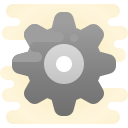
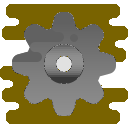
Changement de la palette de couleur et amélioration graphique

diff --git a/css/style.css b/css/style.css
@@ -10,8 +10,28 @@
 }
 
 body {
+  --green-darker: #060C00;
+  --green-dark: #295802;
+  --green-normal: #62A12D;
+  --green-light: #A3DD73;
+  --green-lighter: #E2FACE;
+  --brown-darker: #090700;
+  --brown-dark: #625102;
+  --brown-normal: #B59E32;
+  --brown-light: #F8DC5C;
+  --brown-lighter: #FFF9BD;
+
+
   text-align: center;
   font-family: Nunito;
+  color: var(--brown-darker);
+  /* background: var(--green-normal); */
+  background:     
+    linear-gradient(217deg, var(--green-light), rgba(255,0,0,0.0) 90.71%),
+    linear-gradient(127deg, var(--green-dark), rgba(0,255,0,0) 90.71%),
+    linear-gradient(336deg, var(--green-darker), rgba(0,0,255,0) 90.71%);
+  background-repeat: no-repeat;
+  background-attachment: fixed;
 }
 
 .card {
@@ -20,7 +40,7 @@ body {
 
   /* margin: 10% auto; */
 
-  border: solid white;
+  border: solid var(--green-dark);
   cursor: pointer;
   text-align: center;
   -webkit-transition: transform 0.6s;
@@ -38,8 +58,9 @@ body {
   /* padding-bottom: 100%; */
 }
 
-.card:hover {
-  border: solid black;
+.card_front:hover {
+  /* border: solid black; */
+  background-color: var(--green-normal)
 }
 
 /*.card_content {
@@ -63,7 +84,7 @@ body {
   justify-content: center;
 }
 .card_front {
-  background-color: #6c8976;
+  background-color: var(--brown-normal);
   transform: rotateX(0deg);
   height: 100%;
   -webkit-transform: rotateX(0deg);
@@ -73,7 +94,7 @@ body {
 .card_back {
   transform: rotateY(180deg);
   -webkit-transform: rotateY(180deg);
-  background: #b48352;
+  background: var(--green-normal);
   text-align: center;
 
   right: 0;
@@ -123,16 +144,6 @@ body {
   min-height: 6.8vw;
 }
 
-/* table {
-  background-color: blue;
-} */
-
-/* tbody#cards {
-  margin-left: auto;
-  margin-right: auto;
-  background-color: red;
-} */
-
 #cards_ {
   width: 60%;
   margin: auto;
@@ -141,18 +152,6 @@ body {
 .board {
   width: 100%;
 }
-
-/* #cards:nth-child(1) {
-  width: 0px;
-} */
-
-/* table {
-  border-spacing: 100%;
-} */
-
-/* td {
-  border: solid black;
-} */
 
 .card_box {
   /* background-color: yellow; */
@@ -172,7 +171,7 @@ body {
 }*/
 
 .menu {
-    background-color: red;
+    /* background-color: var(--brown-light); */
     border-radius: 1vw;
     margin: auto 15vw;
     padding-top: 1vw;
@@ -189,12 +188,13 @@ body {
     font-size: 100%;
     cursor: pointer;
     text-align: center;
-    background-color: #4CAF50;
+    background-color: var(--brown-light);
     border: none;
     border-radius: 1vw;
     box-shadow: 0 10% #999;
     outline:none;
     margin: 1vw;
+    color: var(--brown-darker);
 }
 
 #btn-title {
@@ -208,10 +208,10 @@ body {
     margin: auto 2vw;
 }
 
-.button:hover {background-color: #3e8e41}
+.button:hover {background-color: var(--brown-normal)}
 
 .button:active {
-    background-color: #3e8e41;
+    background-color: var(--brown-dark);
     box-shadow: 0 50% #666;
     transform: translateY(3%);
 }

diff --git a/index.html b/index.html
@@ -4,7 +4,7 @@
     <meta charset="utf-8">
     <title>Hello World</title>
     <link rel="stylesheet" href="css/style.css">
-    <link rel="icon" href="favicon.ico" type="image/x-icon" />  
+    <link rel="icon" href="favicon.ico" type="image/x-icon"/>  
     <link rel="apple-touch-icon" href="images/hello-icon-152.png">   
     <meta name="theme-color" content="white"/>  
     <meta name="apple-mobile-web-app-capable" content="yes">  
@@ -35,8 +35,14 @@
                 <p id="btn-title">Let's play !</p>
             </button><br>
             <div class="btn-group" style="width:100%">
-                <button class="button" style="width:33.3%" onclick="window.location.href = 'https://www.youtube.com/watch?v=28FVxYQuLOQ';"><img src="images/dico.jpg" /></button>
-                <button class="button" style="width:33.3%"><img src="images/settings1.png" /></button>
+                <button class="button" style="width:33.3%" onclick="window.location.href = 'https://www.youtube.com/watch?v=28FVxYQuLOQ';">
+                    <img src="images/dico.png" />
+                    <p id = "btn-title">Manage dictionnary</p>
+                </button>
+                <button class="button" style="width:33.3%">
+                    <img src="images/settings1.png" />
+                    <p id = "btn-title"> Settings </p>
+                </button>
             </div>
             </button>
         </div>
